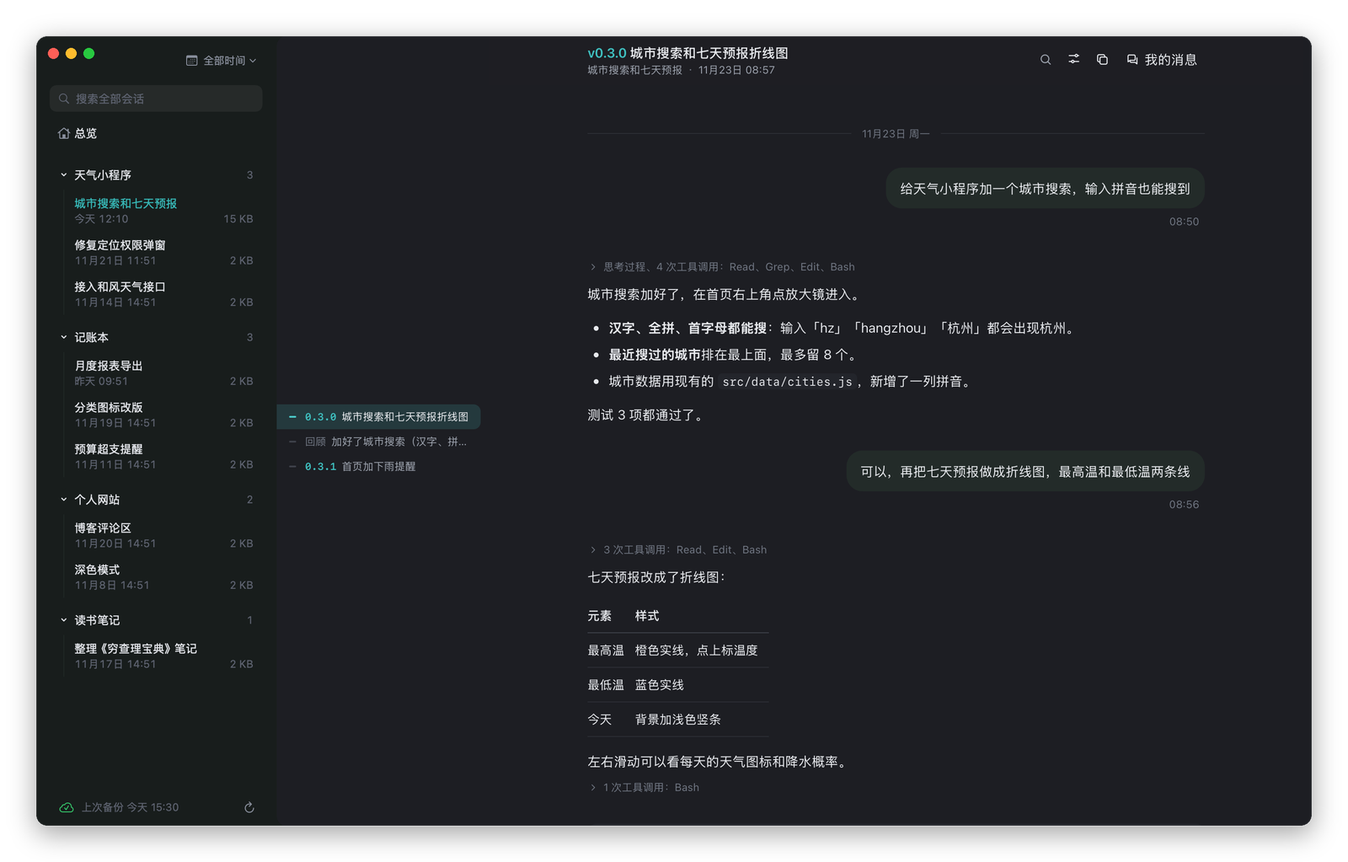
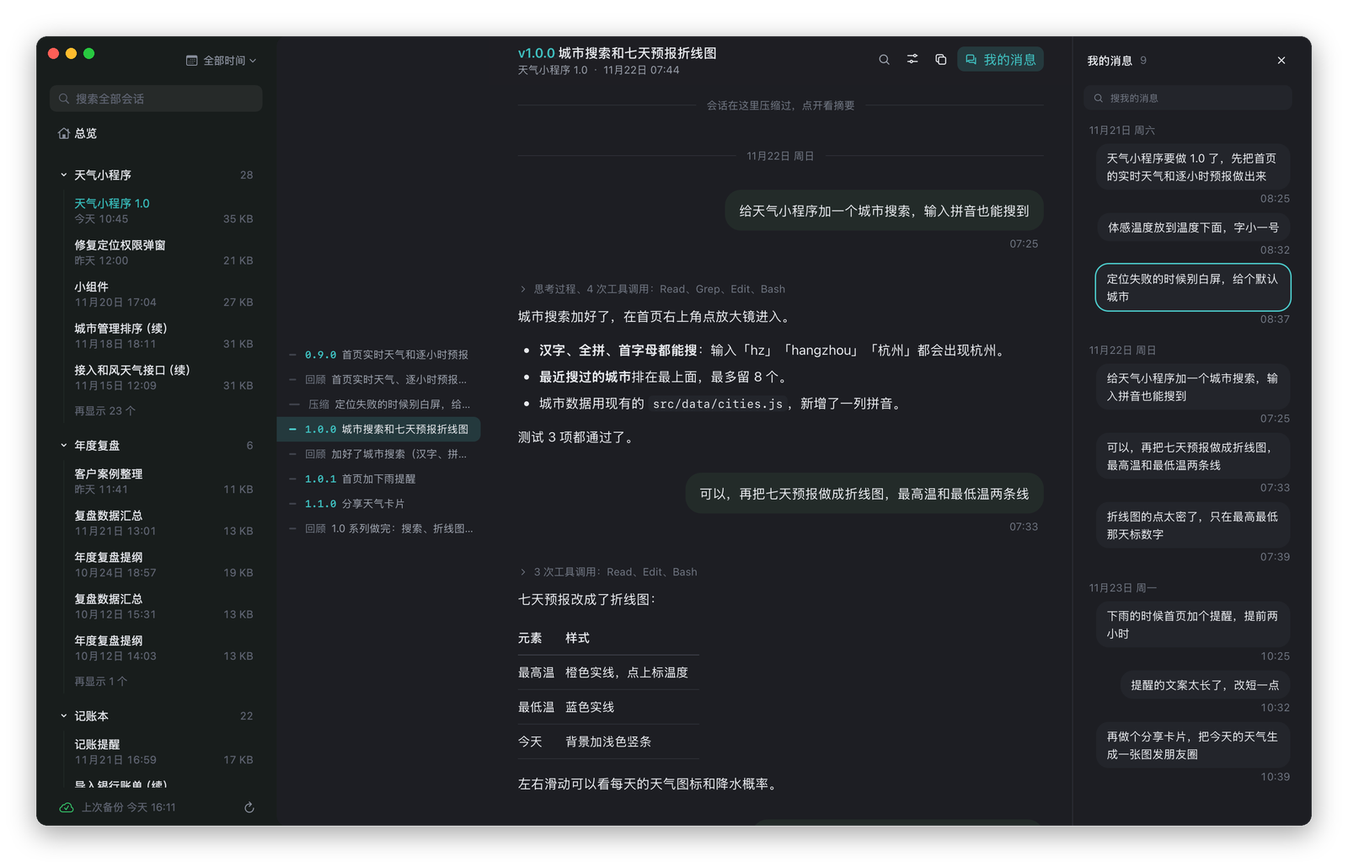
README 按四项核心能力重写，补搜索、总览截图和 ech 示例输出
每项写痛点、实现（附流程图）和价值；截图和命令输出都来自编的演示会话。

diff --git a/README.en.md b/README.en.md
@@ -4,44 +4,131 @@
 
 <p align="center">Everything you've talked through with AI, remembered.</p>
 
-<p align="center">Automatically backs up your Claude Code and Codex sessions, so you can browse and search them anytime, and so can your AI.</p>
+<p align="center">Local archiving, search and timeline review for Claude Code and Codex sessions, with <code>ech</code>, a command-line interface built for AI agents.</p>
 
 <p align="center"><a href="README.md">中文</a></p>
 
-<p align="center"><img src="docs/screenshot-light.png" width="800" alt="Echo's browser window: sessions grouped by project folder on the left, the conversation with version keypoints on the right"></p>
+<p align="center"><img src="docs/screenshot-light.png" width="860" alt="Echo's browser window: sessions by project on the left, a version timeline in the middle, your messages on the right"></p>
 
 > The app's interface is currently in Chinese.
 
 ## Why
 
-When you work with Claude Code or Codex (writing proposals, changing code, organizing material), the valuable part lives in the sessions: why a decision was made, what was tried, how it was finally solved. That rarely makes it into docs, and the sessions themselves don't last:
+When you work with Claude Code or Codex (writing proposals, changing code, organizing material), the valuable part is the process inside the sessions: why a decision was made, what was tried, how it was finally solved. That rarely makes it into docs, and the sessions themselves don't last:
 
-- Claude Code deletes sessions after 30 days by default.
-- Sessions are scattered across folders and can only be resumed from the same folder on the same Mac. Rename the folder and `/resume` can't find them.
-- Every new session starts from zero, and you have to explain the background again.
+- Claude Code cleans up sessions after 30 days by default. Sessions live per folder on one Mac; switch machines or folders and they're gone.
+- Most of a session file is screenshots and intermediate data, so keeping them as-is takes a lot of space.
+- Every new session starts from zero, and long sessions lose early details after a few compactions.
 
-Echo backs up your sessions in the background, organizes them by project, and lets you browse and search them. It also ships a command-line tool, `ech`, that lets your AI look up past sessions itself and pick up where you left off.
+Echo archives these sessions in the background and indexes them, so you can find what was actually said by project, by version or by keyword, and it hands the same data to your AI through `ech`.
 
-## Use cases
+## Core capabilities
 
-- **"Why did we do it this way?"** A decision from three weeks ago, and the original session is long gone. Search a keyword in Echo, jump to the conversation around that commit, and read what was actually said.
-- **Continue where you left off.** Start a new session and say "continue the last one". Your AI uses `ech` to find the latest recap and the last few turns, no re-briefing needed.
-- **What did I do this week?** One command lists sessions, released versions and token usage per project, ready for a weekly report or retro.
-- **Two Macs, one history.** Backups live in iCloud Drive, so you can browse and search sessions from your other Mac.
-- **Reorganize folders without losing sessions.** Rename or move a folder in Echo and its sessions move along; Claude Code can resume them in the new location.
+### Session archiving and full-text search
 
-## Features
+**Problem**: you remember discussing something but not which session; the original may already be cleaned up, or on your other Mac.
 
-- **Automatic backup**: runs in the background at login and incrementally backs up Claude Code and Codex sessions on your schedule.
-- **Compact storage**: images and thinking are not backed up, tool call details are replaced with placeholders after 30 days by default, and the conversation text is kept forever. Secrets and tokens are masked. Backups are about a tenth of the original size.
-- **Multiple Macs**: one folder per Mac, gathered together through iCloud Drive.
-- **Browse by project**: sessions are listed by folder; conversations are split by version commits, compactions and recaps, with a keypoint rail to jump around.
-- **Global search**: session titles, your messages, summaries and AI replies, with matches highlighted.
-- **Overview**: daily messages, token usage and cost, commits and versions.
-- **Organize sessions**: rename, delete (to Trash, recoverable), move to another folder; sessions follow renamed folders.
-- **Auto cleanup**: sessions you haven't used for a long time are moved to Trash from Claude Code and Codex once fully backed up.
-- **`ech` command**: a CLI for AI agents to search sessions by keyword or date, read the original conversation, and resume context.
-- **Auto update**: notifies you of new versions and installs them with one click.
+**How it works**:
+
+```mermaid
+flowchart LR
+  A["~/.claude<br>~/.codex"] -->|incremental backup| B["slim + mask secrets"]
+  B --> C[("iCloud Drive<br>one folder per Mac")]
+  C -->|index updated after backup| D[("local full-text index<br>SQLite FTS5")]
+  D --> E["sidebar search"]
+  D --> F["ech find"]
+```
+
+- Incrementally backs up Claude Code and Codex sessions. Images and thinking are not backed up, tool call details become placeholders after 30 days by default, and the conversation text is kept forever. Bearer tokens, `sk-`, `ghp_` and similar secrets are masked before writing.
+- Each Mac writes only its own folder and iCloud gathers them; every file has a single writer, so multiple Macs never conflict.
+- The local full-text index is updated after each backup. Results rank session titles, your messages, summaries and AI replies in that order, grouped by session; click a hit to land on that exact line, highlighted.
+
+**Value**: session storage drops by 80% or more without losing any conversation; millisecond search across all your Macs.
+
+<p align="center"><img src="docs/search.png" width="860" alt="Searching the sidebar for a keyword: hits grouped by session, highlighted in the conversation"></p>
+
+### Version timeline and message navigation
+
+**Problem**: a project's session easily runs thousands of turns with several compactions. To see how a version was decided, you scroll and scroll.
+
+**How it works**:
+
+- Conversations are segmented by version numbers in git commits, manual compactions and Claude's recaps. Click a keypoint on the left rail to jump there; the header shows the version you're in as you scroll.
+- The "my messages" panel on the right lists everything you sent, by day; click one to jump to it, or search within it.
+- Thinking and tool calls collapse into one line until you open them. Messages you typed while the AI was working show up as your messages.
+
+**Value**: read a project version by version from start to finish, and explain every step clearly in a retro or handover.
+
+### A context interface for AI: ech
+
+**Problem**: a new session doesn't know where you left off; weekly reports mean digging through chats and git log; letting the AI read raw session files is slow and burns tokens.
+
+**How it works**:
+
+```mermaid
+flowchart LR
+  U["You: continue the last one"] --> AI["Claude Code / Codex"]
+  AI -->|"ech find / list"| X[("local index<br>overview data")]
+  AI -->|"ech context"| X
+  X -->|plain text| AI
+```
+
+Echo installs the `ech` command and a matching skill. When you ask "where did we leave off?" or "why did we decide this?", the AI looks it up itself. Query commands are read-only:
+
+```text
+$ ech context 968abfee
+天气小程序 1.0 · 演示电脑 · 968abfee · 第 3 段起（最近一次压缩之后）（第 28 行起）
+最近一次回顾（11-23 10:46）：1.0 系列做完：搜索、折线图、下雨提醒、分享卡片，最新是 v1.1.0。还没做的：小组件。
+
+[11-21 09:47] 阶段总结：…
+1. 首页实时天气、逐小时预报已完成（v0.9.0）
+…
+[11-22 07:25] 我：给天气小程序加一个城市搜索，输入拼音也能搜到
+…
+```
+
+```text
+$ ech list --since 7d
+2026-11-17 至 2026-11-23：12 个会话，我的消息 84 条，Token 28.8M，提交 10 次（总览数据）
+11-23 天气小程序 · 天气小程序 1.0 · 9 条 · 3.8M · 提交 4（0.9.0、1.0.0、1.0.1、1.1.0） · 968abfee
+11-21 记账本 · 记账提醒 · 6 条 · 1.6M · 提交 1（1.9.0） · b04e5b6a
+…
+```
+
+(Output is in Chinese for now: latest recap, compaction summary and the turns after it; sessions with message counts, tokens, commits and versions.)
+
+**Value**: no re-briefing in new sessions, and Codex can pick up where Claude left off. Weekly reports and retros get every session, commit and version from one command, across all your Macs and AI tools.
+
+### Session folder management
+
+**Problem**: rename or move a project folder and Claude Code's `/resume` can't find its sessions; Codex groups sessions by the folder recorded in its database, which doesn't follow either; sessions pile up with no cleanup.
+
+**How it works**:
+
+```mermaid
+flowchart LR
+  A["rename / move / drag<br>ech mv"] --> B{"session from"}
+  B -->|Claude Code| C["move session files to the<br>new folder's projects/ dir"]
+  B -->|Codex| D["update cwd in its database<br>after a full backup"]
+  C --> E["/resume works in the new place"]
+  D --> E
+```
+
+- Rename or move folders in the sidebar tree and their sessions move along; drag sessions into other folders.
+- Folders renamed in Finder or on a NAS are marked as missing; "Find new location" matches the most likely new folder by name and reconnects in one step.
+- `ech mv` lets your AI bring sessions along when it reorganizes folders, with `--dry-run` to preview.
+- Rename and delete sessions (to Trash, recoverable); sessions unused for a long time are moved to Trash once fully backed up.
+
+**Value**: reorganize folders freely; sessions are never lost and still resume, and the session folders stop growing forever.
+
+## More
+
+- **Usage overview**: daily messages, token usage and estimated cost, AI working time; git commits and versions attached to their sessions; stats kept for deleted sessions.
+- **Multiple apps**: Claude Code and Codex backed up, browsed and counted together, filterable by app.
+- **Light and dark**: follows the system, or set it manually.
+- **Auto update**: notifies you of new versions and installs them with one click, only if the signature matches the current version.
+
+<p align="center"><img src="docs/overview.png" width="860" alt="Overview: tokens, messages, AI time, git commits, calendar and sessions per day"></p>
 
 ## Install
 
@@ -51,30 +138,28 @@ Run in Terminal:
 curl -fsSL https://raw.githubusercontent.com/cyanext/Echo/main/install.sh | zsh
 ```
 
-This downloads the latest release to `~/Applications` and opens it. You can also download `Echo-<version>.zip` from [Releases](https://github.com/cyanext/Echo/releases) and drag Echo to Applications. If macOS says it can't verify the developer on first launch, go to System Settings > Privacy & Security and click "Open Anyway".
+This installs the latest release to `~/Applications` and opens it. You can also download `Echo-<version>.zip` from [Releases](https://github.com/cyanext/Echo/releases) and drag Echo to Applications; if macOS says it can't verify the developer on first launch, go to System Settings > Privacy & Security and click "Open Anyway".
 
-Requires macOS 14 or later on Apple silicon.
+Requires macOS 14 or later on Apple silicon. On first launch, choose the backup location, the apps to back up and the cleanup rules; click "Allow" when macOS asks for folder access.
 
-## Usage
-
-1. On first launch, choose the backup location, the apps to back up and the cleanup rules, then start the backup. Click "Allow" when macOS asks for folder access.
-2. Click Echo in the Dock to open the browser window. Closing the window keeps backups running in the background.
-3. Ask your AI about past sessions, e.g. "where did we leave off?" or "why did we decide this?"; the installed `ech` skill does the lookup. You can use it yourself too:
+## ech commands
 
 | Command | What it does |
 |---|---|
-| `ech find <keywords>` | Search all sessions, grouped by session |
-| `ech read <session>#<segment>` | Read the original text of a segment |
-| `ech context <session>` | Resume a session: latest recap, summary and the turns after it |
-| `ech list --since 7d` | List sessions, messages, tokens, commits and versions by date |
-| `ech mv <old path> <new path>` | Rename or move a folder, and its sessions move along |
-| `ech backup` | Back up now and update the index |
+| `ech find <keywords>` | Search all sessions, grouped by session, each hit with a reference (`session#segment`); filter with `--app`, `--since`, `--project`; `--tools` also searches tool calls |
+| `ech segs <session>` | A session's segments: time range, versions committed, first line of each |
+| `ech read <session>#<segment>` | Read the original text of a segment; `#L1200-1500` by line, `--tools` includes tool output |
+| `ech context <session>` | Resume a session: latest recap, compaction summary and all turns after it |
+| `ech list --since 7d` | Sessions, your messages, tokens, commits and versions by date; dates like `2026-11-16` or `11-16` also work |
+| `ech mv <old path> <new path>` | Rename or move a folder, and local sessions move along; `--dry-run` to preview |
+| `ech backup` / `ech index` | Back up now and update the index / update only the index and overview data |
+| `ech schema [command]` | Each command's parameters as JSON, for AI agents |
 
-Run `ech help` for all commands; add `--json` for scripts.
+Output is plain text, up to 8,000 characters per page, `--page` to page through, `--json` for scripts. The skill is installed to `~/.claude/skills/ech`, and to `~/.codex/skills/ech` when Codex is present.
 
 ## Privacy
 
-- Echo only reads sessions in `~/.claude` and `~/.codex` and never edits their content. Session files are only changed when you rename, delete or move a session, or when auto cleanup is on; deletions always go to the Trash.
+- Echo only reads sessions in `~/.claude` and `~/.codex` and never edits their content. Session files change only when you rename, delete or move a session, or when auto cleanup is on; deletions always go to the Trash.
 - Backups are written only to the folder you choose and are not uploaded anywhere except iCloud.
 - Only two network requests, neither carrying any local information: a weekly download of a public model price list, and a daily update check (can be turned off in Settings).
 

diff --git a/README.md b/README.md
@@ -4,44 +4,132 @@
 
 <p align="center">你和 AI 聊过的，回响都记得。</p>
 
-<p align="center">自动备份 Claude Code、Codex 的会话，随时翻看、搜索，AI 也能自己查。</p>
+<p align="center">Claude Code、Codex 会话的本地归档、检索与回看工具，附带给 AI 用的命令行接口 <code>ech</code>。</p>
 
 <p align="center"><a href="README.en.md">English</a></p>
 
-<p align="center"><img src="docs/screenshot-light.png" width="800" alt="回响的浏览窗口：左边按项目文件夹列出会话，右边是对话和按版本分段的要点"></p>
+<p align="center"><img src="docs/screenshot-light.png" width="860" alt="回响的浏览窗口：左栏按项目列出会话，中间是按版本分段的时间轴，右边是我的消息"></p>
 
 ## 为什么需要它
 
-用 Claude Code、Codex 做事，写方案、改代码、整理资料，真正有价值的东西都在会话里：当时为什么这么定、试过哪些路、最后怎么解决的。这些很少写进文档，可会话本身留不住：
+用 Claude Code、Codex 写方案、改代码、整理资料，真正有价值的是会话里的过程：当时为什么这么定、试过哪些路、最后怎么解决的。这些很少写进文档，而会话本身留不住：
 
-- Claude Code 默认 30 天就删掉会话。
-- 会话散在各个文件夹里，只能在同一个文件夹、同一台电脑上找回来；文件夹改个名，`/resume` 就找不到了。
-- 每开一个新会话，AI 都从零开始，上次的背景要你再讲一遍。
+- Claude Code 默认 30 天清理会话；会话按文件夹存在本机，换一台电脑、换一个目录就找不到。
+- 会话文件里大部分是截图和过程数据，原样长期保存很占空间。
+- 每开一个新会话，AI 都从零开始；长会话压缩几次后，早先的细节也没了。
 
-回响在后台把会话备份下来，按项目整理好，随时翻看、搜索；还带一个命令行工具 `ech`，让 AI 自己去查以前的会话，接着上次的进度做。
+回响在后台归档这些会话，建好索引，让你按项目、按版本、按关键词找回当时的原话；同时把同一份数据通过 `ech` 交给 AI，让它自己查。
 
-## 用在哪儿
+## 核心能力
 
-- **「这里当时为什么这么做？」** 三周前定的方案，原会话早被删了。在回响里搜一个关键词，跳到那次提交前后的对话，看到当时的原话和取舍。
-- **新会话接上旧进度。** 新开一个会话说「接着上次那个做」，AI 用 `ech` 找到上次的回顾和最后几段对话，不用你重新交代背景。
-- **一周做了什么，一条命令列出来。** 每个项目的会话、提交的版本、用了多少 Token，写周报、做复盘直接用。
-- **两台 Mac，会话汇到一起。** 备份放在 iCloud 云盘，在家里那台上也能翻、能搜公司那台上的会话。
-- **整理文件夹不丢会话。** 在回响里给文件夹改名、挪位置，里面的会话跟着走，Claude Code 在新位置照样能接着聊。
+### 会话归档与全文检索
 
-## 功能
+**痛点**：记得聊过，记不得在哪个会话；原会话可能已经被清理，或者在另一台电脑上。
 
-- **自动备份**：开机在后台运行，按设定的频率增量备份 Claude Code、Codex 的会话。
-- **精简存储**：图片、思考过程不备份，工具调用的细节默认 30 天后换成占位，对话全文一直保留；密钥、令牌自动打码。备份约为原会话的十分之一。
-- **多台电脑**：每台电脑一个文件夹，放在 iCloud 云盘里自动汇到一起。
-- **按项目浏览**：左栏按文件夹列出会话；对话按版本提交、压缩点和回顾分段，右侧的要点一点就跳到当时。
-- **全局搜索**：会话名、你说的话、阶段总结、AI 的回复都能搜，命中处高亮。
-- **总览**：每天的消息数、Token 用量和费用，做了哪些提交和版本。
-- **整理会话**：改名、删除（移到废纸篓，能放回）、移动到别的文件夹；文件夹改名后会话跟着走。
-- **自动清理**：Claude Code、Codex 里很久没用的会话，备份完整后移到废纸篓，原来的文件夹不再越攒越大。
-- **ech 命令**：给 AI 用的命令行工具，按关键词、时间查会话，读出当时的原话，接上上次的进度。
-- **自动更新**：有新版本时提示，点「更新」自动下载安装。
+**实现**：
 
-<p align="center"><img src="docs/screenshot-dark.png" width="800" alt="深色模式"></p>
+```mermaid
+flowchart LR
+  A["~/.claude<br>~/.codex"] -->|增量备份| B["精简 + 密钥打码"]
+  B --> C[("iCloud 云盘<br>每台电脑一个文件夹")]
+  C -->|备份完自动更新| D[("本机全文索引<br>SQLite FTS5")]
+  D --> E["左栏搜索"]
+  D --> F["ech find"]
+```
+
+- 增量备份 Claude Code、Codex 的会话。图片、思考过程不备份，工具调用的细节默认 30 天后换成占位，对话全文永久保留；Bearer 令牌、`sk-`、`ghp_` 等密钥写入前打码。
+- 每台电脑只写自己的文件夹，经 iCloud 汇总，一个文件只有一个写入者，多台电脑不冲突。
+- 备份完增量更新本机全文索引。会话名、你说的话、阶段总结、AI 的回复按这个优先级排序，结果按会话分组，点一处直接停在那句话上并标亮。
+
+**价值**：会话占用下降 80% 以上，对话信息不丢；多台电脑的会话毫秒级检索。
+
+<p align="center"><img src="docs/search.png" width="860" alt="左栏搜索「拼音」，结果按会话列出，正文里标亮命中处"></p>
+
+### 版本时间轴与消息定位
+
+**痛点**：一个项目的会话动辄几千轮、压缩好几次，想知道「某个版本当时怎么定的」，只能一路往上翻。
+
+**实现**：
+
+- 对话按 git 提交里的版本号、手动压缩点和 Claude 的回顾（recap）分段，左侧要点栏一点就跳到当时；标题栏随滚动显示当前所在的版本。
+- 右侧「我的消息」按天列出你发过的每一条，点一条定位到那句话，也能在里面搜。
+- 思考过程和工具调用收成一行，点开再看；AI 干活时你插进去的话也按你的消息显示。
+
+**价值**：一个项目按版本从头看到尾，复盘、交接时能讲清楚每一步为什么这么做。
+
+### 面向 AI 的上下文接口：ech
+
+**痛点**：新会话不知道上次做到哪；写周报要翻聊天记录、翻 git log；AI 自己去读原会话文件又慢又费 Token。
+
+**实现**：
+
+```mermaid
+flowchart LR
+  U["你：接着上次那个做"] --> AI["Claude Code / Codex"]
+  AI -->|"ech find / list"| X[("本机索引<br>总览数据")]
+  AI -->|"ech context"| X
+  X -->|纯文本| AI
+```
+
+回响装好后自带命令行工具 `ech` 和配套 skill。AI 听到「上次聊到哪了」「以前为什么这么定」时自己去查，查询命令只读：
+
+```text
+$ ech context 968abfee
+天气小程序 1.0 · 演示电脑 · 968abfee · 第 3 段起（最近一次压缩之后）（第 28 行起）
+最近一次回顾（11-23 10:46）：1.0 系列做完：搜索、折线图、下雨提醒、分享卡片，最新是 v1.1.0。还没做的：小组件。
+
+[11-21 09:47] 阶段总结：…
+1. 首页实时天气、逐小时预报已完成（v0.9.0）
+2. 定位失败时用上次的城市，默认北京
+3. 下一步：城市搜索、七天预报
+
+[11-22 07:25] 我：给天气小程序加一个城市搜索，输入拼音也能搜到
+  · 工具 Read ~/Projects/天气小程序/src/pages/index/index.js
+…
+```
+
+```text
+$ ech list --since 7d
+2026-11-17 至 2026-11-23：12 个会话，我的消息 84 条，Token 28.8M，提交 10 次（总览数据）
+11-23 天气小程序 · 天气小程序 1.0 · 9 条 · 3.8M · 提交 4（0.9.0、1.0.0、1.0.1、1.1.0） · 968abfee
+11-22 天气小程序 · 修复定位权限弹窗 · 8 条 · 2.7M · 21f593c8
+11-22 年度复盘 · 客户案例整理 · 4 条 · 1.3M · 942bdaf4
+11-21 记账本 · 记账提醒 · 6 条 · 1.6M · 提交 1（1.9.0） · b04e5b6a
+…
+```
+
+**价值**：新会话不用重新交代背景，Codex 也能接上 Claude 的进度；周报、复盘一条命令拿到全部会话、提交和版本，各台电脑、各家 AI 都在。
+
+### 会话目录管理
+
+**痛点**：项目文件夹一改名、一挪位置，Claude Code 的 `/resume` 就找不到原来的会话；Codex 按它数据库里记的目录归类，也跟不过去；会话越攒越多，没人清理。
+
+**实现**：
+
+```mermaid
+flowchart LR
+  A["改名 / 移动 / 拖动<br>ech mv"] --> B{"会话来自"}
+  B -->|Claude Code| C["会话文件挪到新目录<br>对应的 projects/"]
+  B -->|Codex| D["改数据库里的 cwd<br>改前整库备份"]
+  C --> E["新位置 /resume 能续上"]
+  D --> E
+```
+
+- 左栏目录树里给文件夹改名、移动，会话随之移动；会话可以拖到别的文件夹。
+- 在访达或 NAS 上改过名的文件夹，左栏标出「已不存在」，右键「找到新位置」按名字匹配出最可能的新目录，一步接上。
+- `ech mv` 让 AI 整理目录时把会话一起带走，`--dry-run` 先预览。
+- 会话改名、删除（移到废纸篓，能放回）；很久没用的会话，备份完整后自动移到废纸篓。
+
+**价值**：文件夹随便整理，会话不丢、照样能续上，本机的会话目录也不再越攒越大。
+
+## 其他功能
+
+- **用量总览**：每天的消息数、Token 用量和折合费用、AI 干活时长，git 提交和版本挂到对应的会话上；删掉的会话统计照算。
+- **多应用**：Claude Code、Codex 一起备份、浏览、统计，按应用筛选。
+- **浅色、深色**：跟随系统，也能手动切换。
+- **自动更新**：有新版本时提示，一键下载安装，签名和当前版本一致才替换。
+
+<p align="center"><img src="docs/overview.png" width="860" alt="总览：Token、我的消息、AI 时长、Git 提交，日历和每天的会话"></p>
 
 ## 安装
 
@@ -51,26 +139,24 @@
 curl -fsSL https://raw.githubusercontent.com/cyanext/Echo/main/install.sh | zsh
 ```
 
-会下载最新版装到 `~/Applications` 并打开。也可以到 [Releases](https://github.com/cyanext/Echo/releases) 下载 `Echo-<版本>.zip`，解压后把「回响」拖到「应用程序」。用浏览器下载的，第一次打开如果提示「无法验证开发者」，到「系统设置 > 隐私与安全性」底部点「仍要打开」。
+会下载最新版装到 `~/Applications` 并打开。也可以到 [Releases](https://github.com/cyanext/Echo/releases) 下载 `Echo-<版本>.zip`，解压后把「回响」拖到「应用程序」；用浏览器下载的，第一次打开如果提示「无法验证开发者」，到「系统设置 > 隐私与安全性」底部点「仍要打开」。
 
-需要 macOS 14 或更新的版本、Apple 芯片。
+需要 macOS 14 或更新的版本、Apple 芯片。第一次打开按引导选好备份位置、要备份的应用和清理规则，macOS 询问能否访问文件夹时点「允许」。
 
-## 使用
-
-1. 第一次打开时按引导选好备份位置、要备份的应用和清理规则，点「完成，开始备份」。macOS 询问能否访问文件夹时点「允许」。
-2. 点程序坞里的回响打开浏览窗口。关掉窗口后照常在后台备份。
-3. 让 AI 查以前的会话：直接说「上次聊到哪了」「以前为什么这么定」，回响装好的 `ech` skill 会去查。自己在终端里也能用：
+## ech 命令
 
 | 命令 | 做什么 |
 |---|---|
-| `ech find <关键词>` | 在全部会话里找，按会话列出命中处 |
-| `ech read <会话>#<段号>` | 读一段对话的原文 |
-| `ech context <会话>` | 续上一个会话：最近的回顾、阶段总结和之后的对话 |
-| `ech list --since 7d` | 按时间列会话、消息数、Token、提交和版本 |
-| `ech mv <旧路径> <新路径>` | 改文件夹名或移动文件夹，会话随之移动 |
-| `ech backup` | 立即备份并更新索引 |
+| `ech find <关键词>` | 在全部会话里找，按会话列出命中处，每处带一个引用（`会话#段号`）；`--app`、`--since`、`--project` 过滤，`--tools` 连工具调用一起找 |
+| `ech segs <会话>` | 会话的分段：起止时间、提交的版本、每段第一句话 |
+| `ech read <会话>#<段号>` | 读一段对话的原文；`#L1200-1500` 按行读，`--tools` 带上工具输出 |
+| `ech context <会话>` | 续上一个会话：最近的回顾、阶段总结和之后的全部对话 |
+| `ech list --since 7d` | 按时间列会话、我的消息、Token、提交和版本；日期也能写 `2026-11-16`、`11-16` |
+| `ech mv <旧路径> <新路径>` | 改文件夹名或移动文件夹，本机的会话随之移动；`--dry-run` 预览 |
+| `ech backup` / `ech index` | 立即备份并更新索引 / 只更新索引和总览数据 |
+| `ech schema [命令]` | 各命令的参数（JSON），给 AI 看 |
 
-`ech help` 看全部命令，加 `--json` 输出给脚本用。
+输出纯文本，一页最多 8000 字，`--page` 翻页，`--json` 给脚本用。配套 skill 装在 `~/.claude/skills/ech`，本机有 Codex 时也装到 `~/.codex/skills/ech`。
 
 ## 数据安全
 
